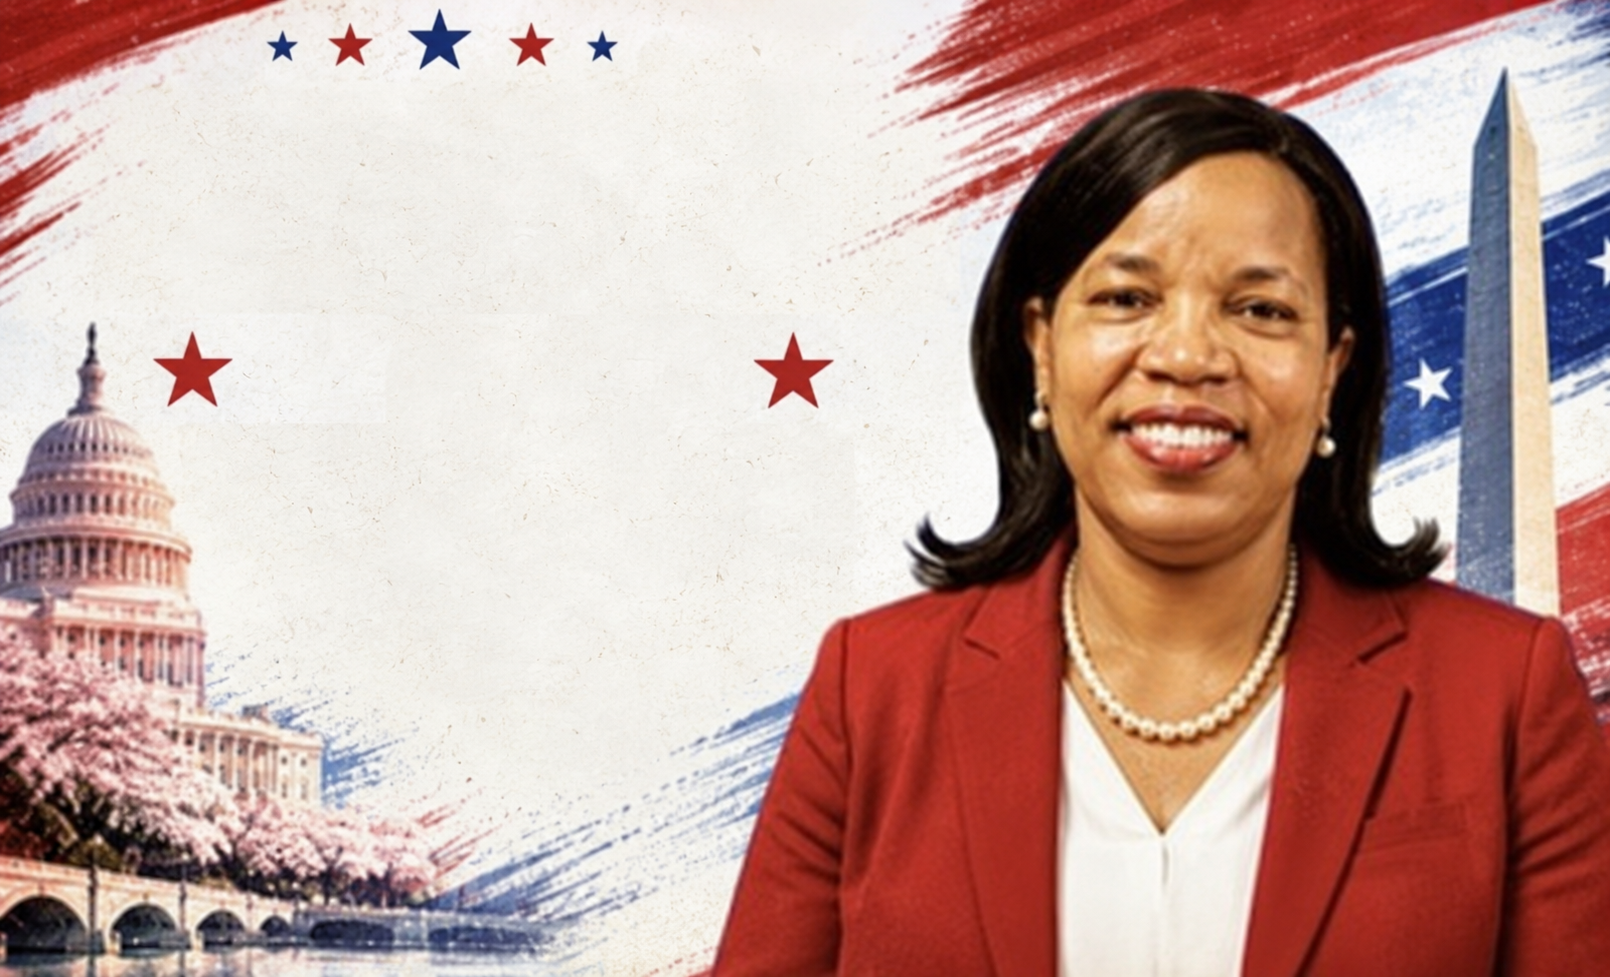
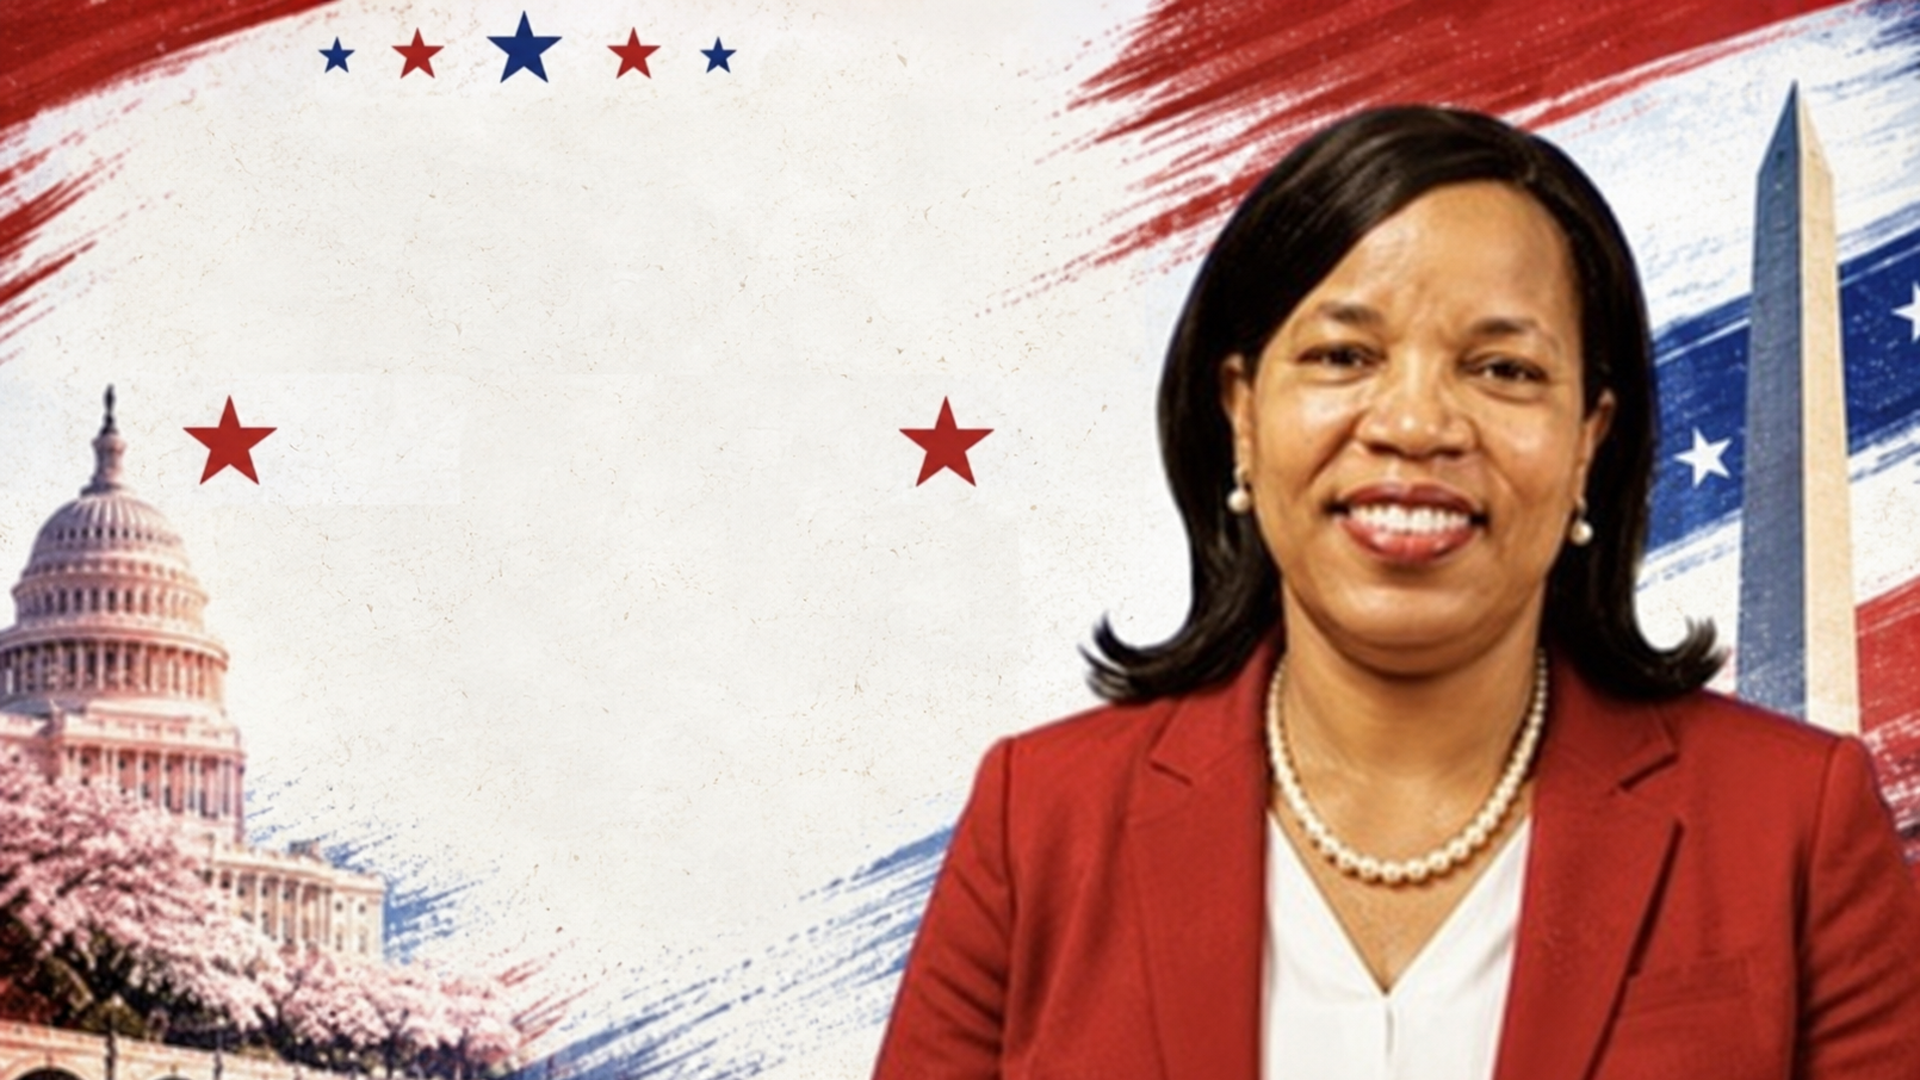
Hero image and section set to true 16:9 at 1920x1080
Claude-Session: https://claude.ai/code/session_014qNUwSWKK2QTUMBcquv9Ui

diff --git a/index.html b/index.html
@@ -59,7 +59,7 @@
             background-image: url('hero_Rhonda.png');
             background-size: cover;
             background-position: center center;
-            aspect-ratio: 1610 / 977;
+            aspect-ratio: 16 / 9;
             display: flex;
             align-items: center;
         }
